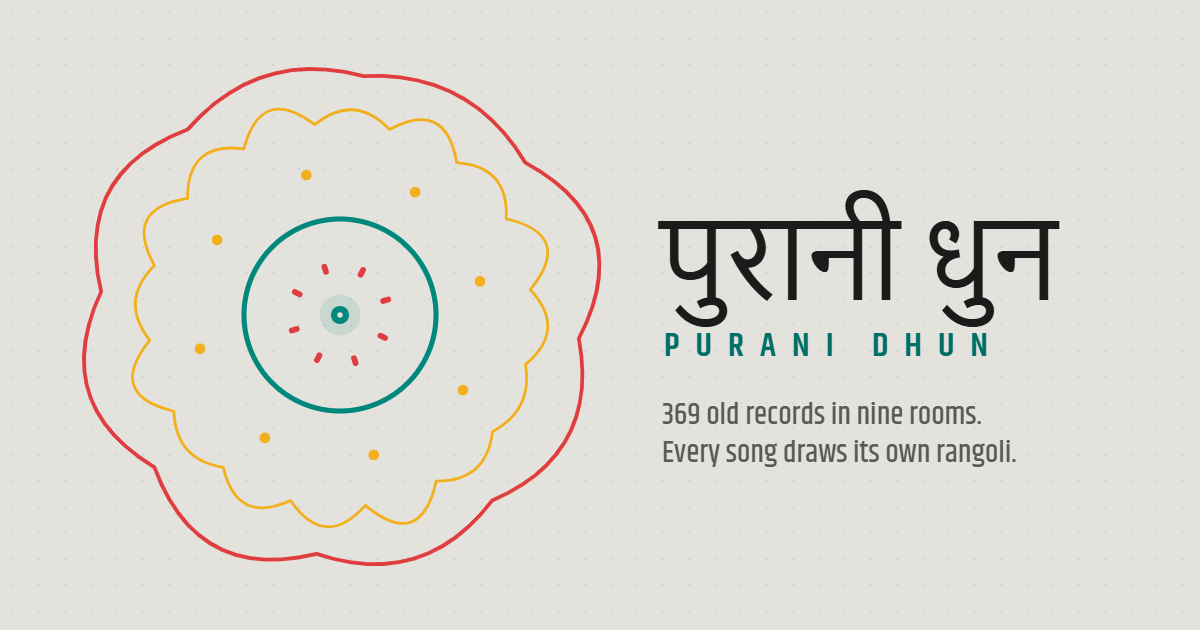
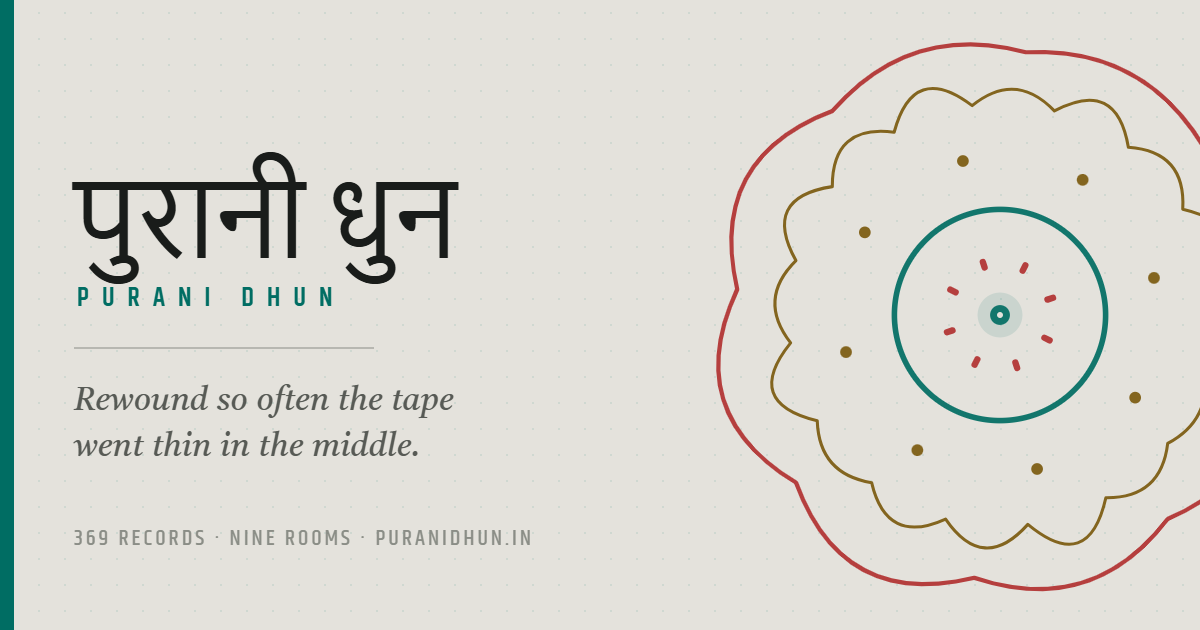
Rebuild the door and the share card, and say something at both
The door had a wordmark and a button and nothing else — no line about what
the place is, and a rangoli behind it so faint it read as a smudge. It now
carries one sentence in the voice face, and the figure behind it is drawn
in ink rather than powder: knocked back to .38 opacity, raw haldi at
1.45:1 was simply not there. The mask over it is a halo instead of a
backdrop, clearing the middle so the wordmark and the line sit on open
ground while the band of rings stays around them — the figure rings the
text the way a rangoli rings a doorway.

The share card was a centred figure with two lines of specification beside
it. It is now an asymmetric card: a spine down the left edge the way the
case sits on a shelf, the wordmark, and the rangoli running off the right
edge. It says something worth reading instead of restating the count.

The card is drawn in the ink cut too. Raw powder goes pale at the size
most people actually see a preview.

og:image now points at og.png?v=2. Facebook, WhatsApp, Slack and Twitter
cache a preview against its URL and hold it long past a redeploy, so the
same filename means the same old card no matter how often this ships.

diff --git a/index.html b/index.html
@@ -11,15 +11,15 @@
 <meta property="og:url" content="https://puranidhun.in/">
 <meta property="og:site_name" content="Purani Dhun">
 <meta property="og:title" content="Purani Dhun — पुरानी धुन">
-<meta property="og:description" content="369 old records in nine rooms. Every song draws its own rangoli.">
-<meta property="og:image" content="https://puranidhun.in/assets/img/og.png">
+<meta property="og:description" content="The barber&#39;s mirror, the bus window, the auto at the red light — and the same song playing in all three. 369 old records, in nine rooms.">
+<meta property="og:image" content="https://puranidhun.in/assets/img/og.png?v=2">
 <meta property="og:image:width" content="1200">
 <meta property="og:image:height" content="630">
-<meta property="og:image:alt" content="Purani Dhun — a rangoli in vermilion, turmeric and peacock on a swept grey ground">
+<meta property="og:image:alt" content="Purani Dhun — the wordmark in Devanagari beside a rangoli in peacock, turmeric and vermilion, running off the edge of a swept grey card">
 <meta name="twitter:card" content="summary_large_image">
 <meta name="twitter:title" content="Purani Dhun — पुरानी धुन">
-<meta name="twitter:description" content="369 old records in nine rooms. Every song draws its own rangoli.">
-<meta name="twitter:image" content="https://puranidhun.in/assets/img/og.png">
+<meta name="twitter:description" content="The barber&#39;s mirror, the bus window, the auto at the red light — and the same song playing in all three. 369 old records, in nine rooms.">
+<meta name="twitter:image" content="https://puranidhun.in/assets/img/og.png?v=2">
 <link rel="icon" href="assets/img/favicon.svg" type="image/svg+xml">
 <link rel="preconnect" href="https://fonts.googleapis.com">
 <link rel="preconnect" href="https://fonts.gstatic.com" crossorigin>
@@ -46,7 +46,11 @@
       <span class="gate__deva">पुरानी धुन</span>
       <span class="gate__latin">Purani&nbsp;Dhun</span>
     </h1>
+    <p class="gate__blurb">The barber&rsquo;s mirror, the bus window, the auto
+      at the red light &mdash; and the same song playing in all three.</p>
     <button id="gate-enter" type="button" class="btn btn--big">Start the record</button>
+    <p class="gate__fine">369 records &middot; nine rooms<span class="gate__fine-x">
+      &middot; every song draws its own rangoli</span></p>
   </div>
 </div>
 

diff --git a/assets/css/purani-dhun.css b/assets/css/purani-dhun.css
@@ -200,9 +200,17 @@ button,input{font:inherit;color:inherit}
 #gate[data-open]{opacity:0;visibility:hidden;pointer-events:none}
 .gate__art{
   position:absolute;inset:0;display:grid;place-items:center;pointer-events:none;
-  opacity:.2;
+  opacity:.38;
+  /* A halo, not a backdrop. The mask clears the middle so the wordmark and
+     the line sit on open ground, keeps the band of rings around them, then
+     fades before the edges — the figure rings the text the way a rangoli
+     rings a doorway, instead of being a watermark printed under it. */
+  -webkit-mask-image:radial-gradient(circle at 50% 50%,
+    transparent 22%, #000 42%, #000 57%, transparent 77%);
+  mask-image:radial-gradient(circle at 50% 50%,
+    transparent 22%, #000 42%, #000 57%, transparent 77%);
 }
-.gate__art svg{width:min(120vh,120vw);height:auto;animation:turn 90s linear infinite}
+.gate__art svg{width:min(128vh,128vw);height:auto;animation:turn 90s linear infinite}
 .gate__plate{position:relative;z-index:2;text-align:center;padding:var(--shell);max-width:38rem}
 .gate__mark{line-height:.92;margin-bottom:1.9rem}
 /* Devanagari is the wordmark. Tiro has one weight, 400, and at this
@@ -218,6 +226,25 @@ button,input{font:inherit;color:inherit}
   font-size:clamp(.82rem,2.2vw,1.05rem);
   letter-spacing:.42em;text-transform:uppercase;color:var(--pig-a-ink);
   padding-left:.42em;
+}
+/* the door says what the place is before you open it. Set in the voice
+   face and italic, because this is the archive talking, not the UI. */
+.gate__blurb{
+  font-family:var(--voice);font-style:italic;
+  font-size:clamp(1.02rem,2.5vw,1.4rem);line-height:1.4;
+  color:var(--ink-2);max-width:30ch;
+  margin:0 auto 2.2rem;text-wrap:balance;
+}
+.gate__fine{
+  margin-top:1.5rem;
+  font-family:var(--sign);font-weight:500;font-size:.85rem;
+  letter-spacing:.1em;text-transform:uppercase;color:var(--ink-3);
+}
+/* the third clause is the first thing to go: on a phone the line wraps
+   mid-phrase otherwise, and the rangoli speaks for itself once inside */
+@media (max-width:560px){
+  .gate__fine-x{display:none}
+  .gate__fine{font-size:.8rem;letter-spacing:.08em}
 }
 
 /* ── 5  the stage ───────────────────────────────────────────────── */

diff --git a/assets/js/app.js b/assets/js/app.js
@@ -451,7 +451,10 @@
 
     // a rangoli behind the door, so the idea lands before you press anything
     const gateSvg = $('#gate-rangoli');
-    if (gateSvg) gateSvg.innerHTML = RG.build('purani-dhun', roomById(S.room).pigments).svg
+    // the door's rangoli is drawn in ink, not powder. It sits behind the
+    // wordmark at low opacity, and raw haldi at 1.45:1 knocked back that
+    // far is simply not there.
+    if (gateSvg) gateSvg.innerHTML = RG.build('purani-dhun', roomById(S.room).inks).svg
       .replace(/class="rg-ring[^"]*"/g, 'class="rg-static"');
 
     wire();

diff --git a/README.md b/README.md
@@ -89,6 +89,22 @@ small label, tracked out past `.2em` in uppercase, is the single most
 recognisable tell in generated CSS, and the old stylesheet had ten
 near-miss variants of it at ten hand-picked sizes and trackings.
 
+## The door
+
+A browser will not start audio without a gesture, so the first screen has
+to exist anyway. It may as well say what the place is.
+
+The rangoli behind it is drawn in **ink, not powder** — knocked back to
+0.38 opacity, raw haldi at 1.45:1 is simply not there. And the mask over
+it is a halo rather than a backdrop: it clears the middle so the wordmark
+and the line sit on open ground, keeps the band of rings around them, then
+fades before the edges. The figure rings the text the way a rangoli rings a
+doorway, instead of being a watermark printed underneath it.
+
+The line under the wordmark is set in the voice face, italic, because it is
+the archive talking rather than the interface. The last clause of the fine
+print is hidden below 560px — on a phone it wraps mid-phrase otherwise.
+
 ## The controls
 
 Everything you can touch is one of two things.
@@ -229,6 +245,15 @@ it.
   Note that canvas resolves a webfont only when that exact weight has
   already been loaded, so `document.fonts.load()` every weight the image
   draws with or it will silently fall back to a system serif.
+
+  **Bump the version when you regenerate it.** The meta points at
+  `og.png?v=2`, not `og.png`. Facebook, WhatsApp, Slack and Twitter cache
+  a preview image against its URL and hold it for a long time — often
+  until someone manually re-scrapes the page. Same filename, same old
+  card, however many times you redeploy. Changing the query string makes
+  it a new URL to every scraper, which is the only reliable way to push a
+  new card out. To force the existing one immediately, run the page
+  through Facebook's Sharing Debugger and Twitter's Card Validator.
 
 ## DNS
 
